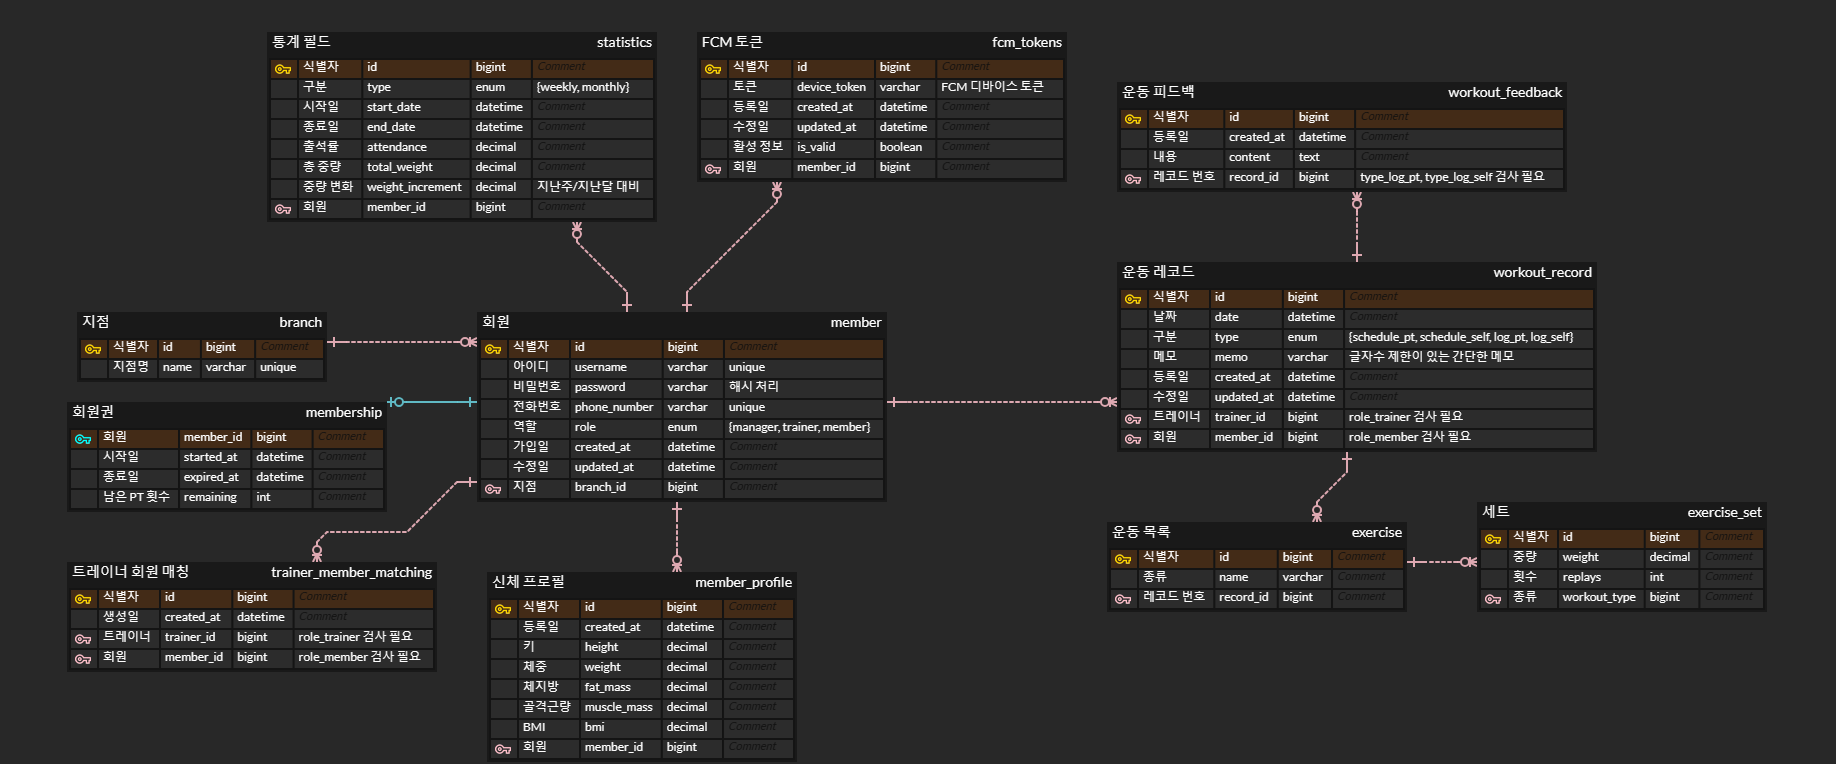
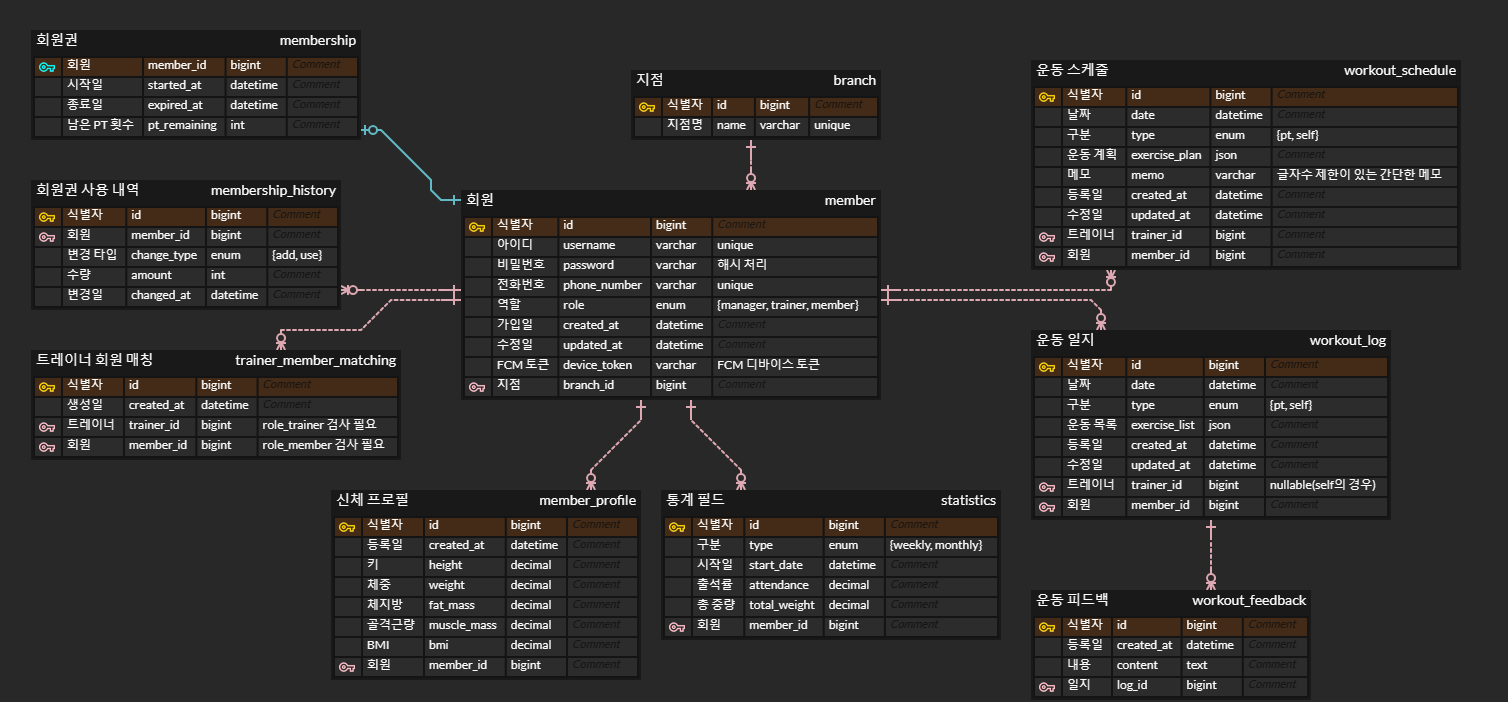
erd 수정

diff --git a/README.md b/README.md
@@ -13,12 +13,12 @@
 
 ### 헬스장 관리 기능 (매니저)
 - 소속 지점의 트레이너와 회원을 매칭/해제할 수 있다.
-- 소속 회원의 PT 횟수와 회원권 시작일/종료일을 설정할 수 있다.
+- 소속 회원의 회원권 시작일/종료일을 설정하고, PT 횟수를 추가할 수 있다.
 
 ### 회원 정보 관리 기능
 - 회원은 마이페이지에 접근하여 본인과 관련된 정보를 조회할 수 있다.
   - 기본 정보(아이디, 전화번호, 역할, 가입일)
-  - 헬스장 이용 정보(PT 횟수, 회원권 시작일/종료일)
+  - 헬스장 이용 정보(회원권 시작일/종료일, 남은 PT 횟수, PT 담당 트레이너)
   - 본인의 신체 프로필(체중, 골격근량 등)을 업데이트하여 통계 서비스에 활용할 수 있다.
 
 ### 운동 스케줄 관리
